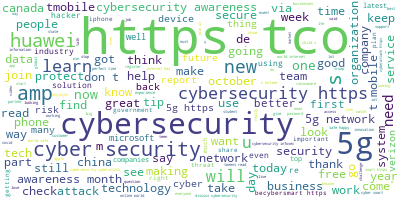
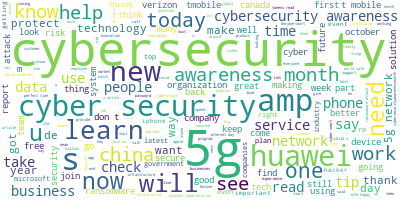
removed https/www, etc

diff --git a/sentiment_analysis.py b/sentiment_analysis.py
@@ -75,10 +75,15 @@ def clean_data(df):
     tw_list["text"] = tw_list["tweet"]
 
     # Removing RT, Punctuation etc
+    words = ["Huawei", "5G", "cyber security", "cybersecurity", "China Canada trade", "Canada China trade", "https", "Canada China relationship", "China Canada relationship"]
+    stopwords = " ".join(words)
     def remove_rt(x): return re.sub("RT @\w+: ", " ", x)
+    pattern = re.compile(r'(https?://)?(www\.)?(\w+\.)?(\w+)(\.\w+)(/.+)?')
+    def rthttp(x): return re.sub(pattern,'',x)
     def rtx(x): return re.sub('[!@#$:).;,?&]', '', x.lower())
     def rty(x): return re.sub('  ', ' ', x)
-    tw_list["text"] = tw_list.text.map(remove_rt).map(rtx).map(rty)
+    def rwords(x): return re.sub(stopwords, "", x)
+    tw_list["text"] = tw_list.text.map(rthttp).map(remove_rt).map(rtx).map(rty)
     return tw_list
 
 
@@ -98,5 +103,5 @@ if __name__ == '__main__':
     df = combine_df("output")
     clean_df = clean_data(df)
 
-    # wordcloud(clean_df, 'text')
-    print(sentiment_analysis(clean_df))
+    wordcloud(clean_df, 'text')
+    # print(sentiment_analysis(clean_df))
